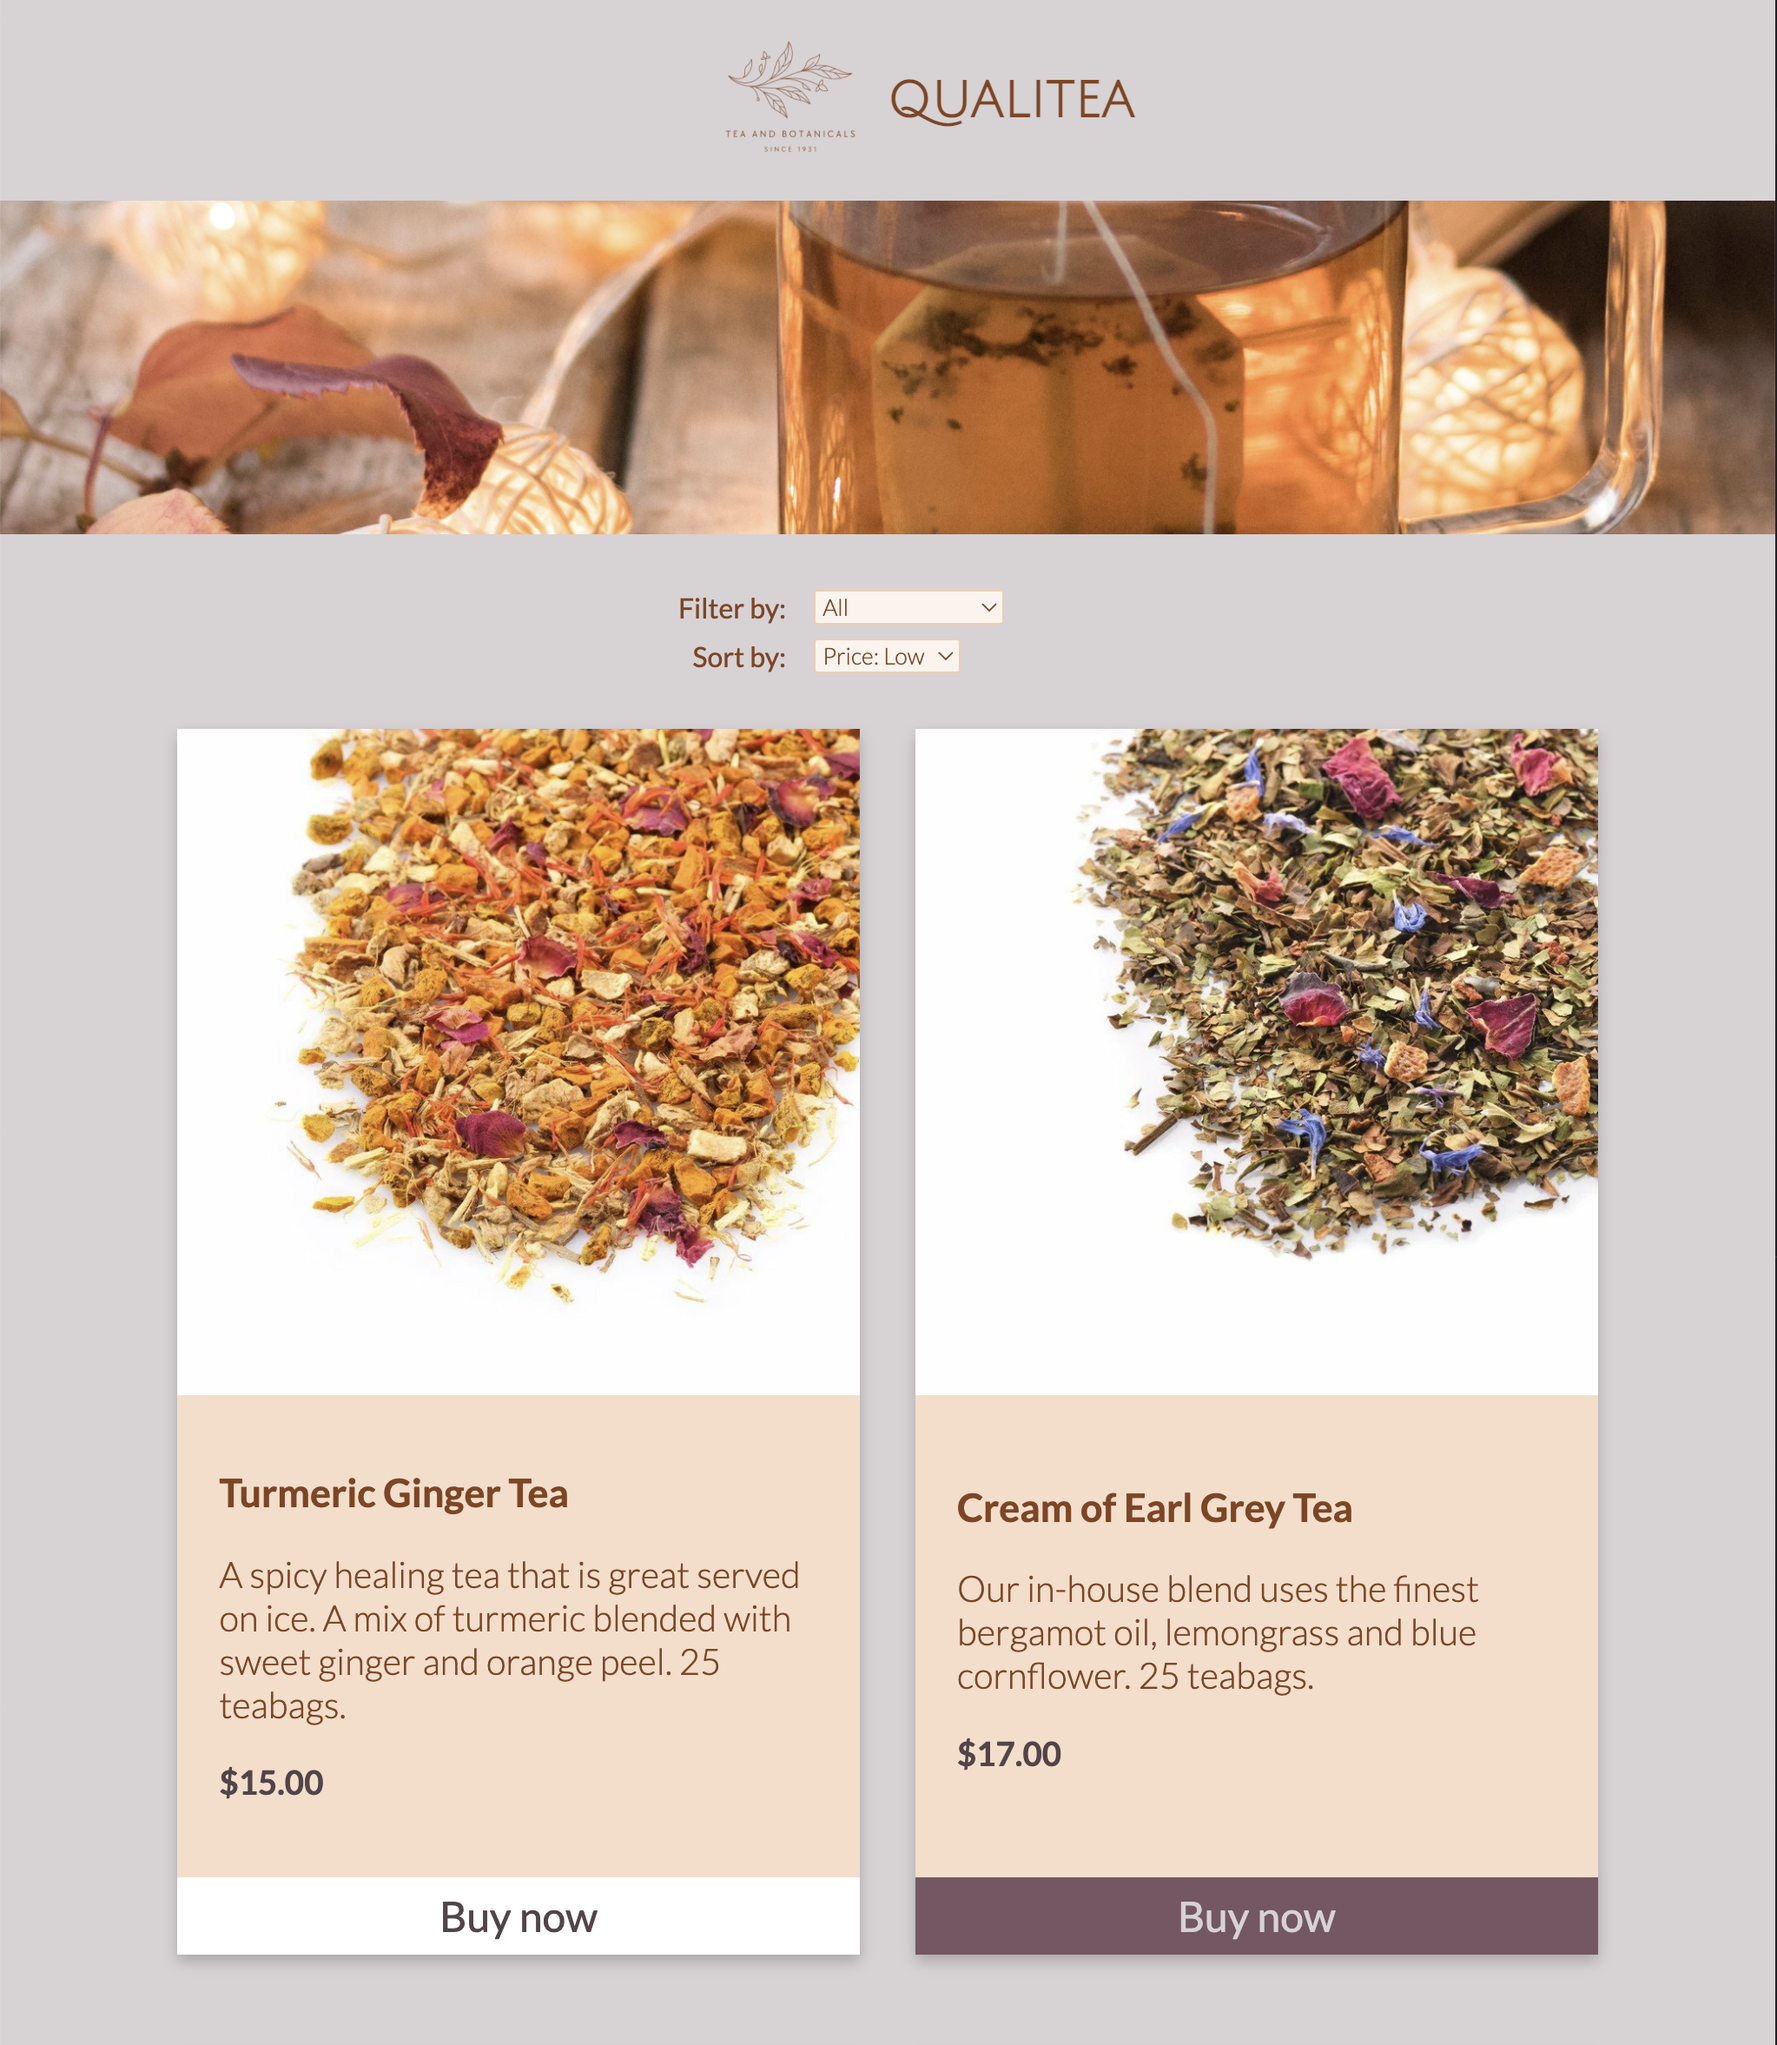
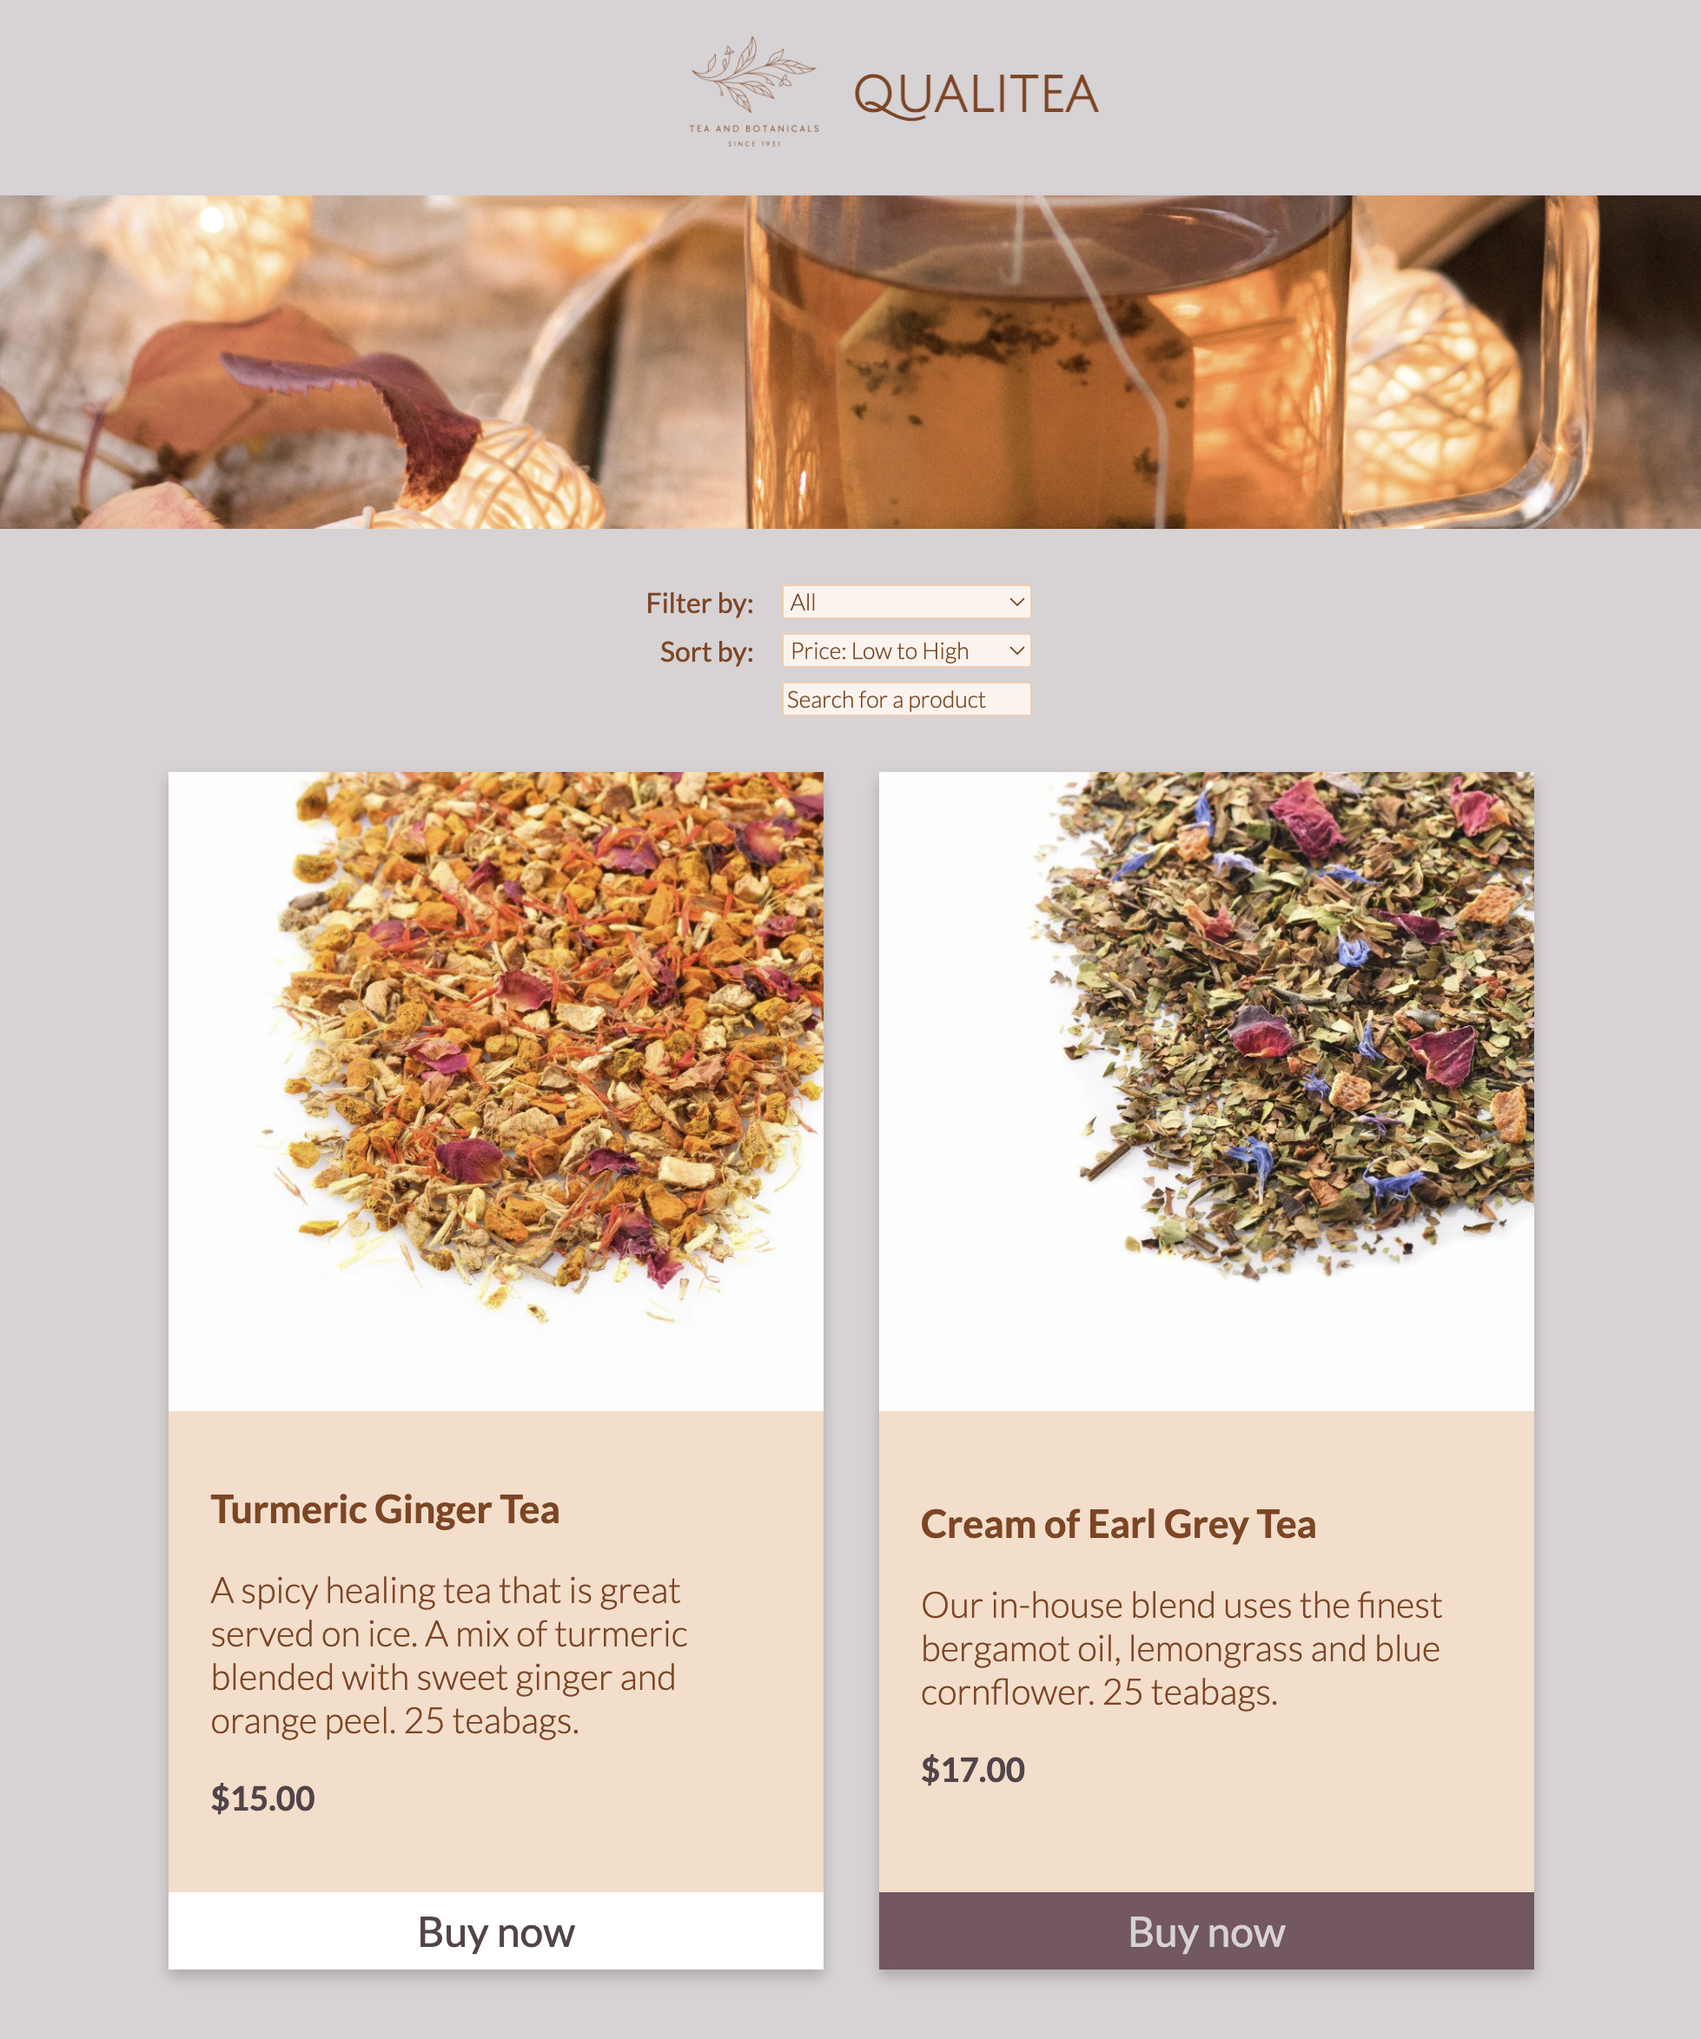
update screenshots on README and fix search so queries are converted to lowercase

diff --git a/src/components/Credits.js b/src/components/Credits.js
@@ -1,0 +1,23 @@
+const Credits = () => {
+  return (
+    <div className="credits">
+      <p className="credit1">
+        Tea product images taken from:{" "}
+        <a className="creditLink" href="https://www.teadrop.com.au/">
+          Tea Drop
+        </a>
+      </p>
+      <p className="credit2">
+        Banner image from:{" "}
+        <a
+          className="creditLink"
+          href="https://unsplash.com/photos/eXw6CPGWwcg"
+        >
+          Svitlana on Unsplash
+        </a>
+      </p>
+    </div>
+  );
+};
+
+export default Credits;

diff --git a/src/App.js b/src/App.js
@@ -10,6 +10,7 @@ import filterByCategory from "./utils/filterByCategory";
 import sortProducts from "./utils/sortProducts";
 import { getProducts } from "./services/getProducts";
 import getProductsBySearch from "./utils/getProductsBySearch";
+import Credits from "./components/Credits";
 
 function App() {
   const [products, setProducts] = useState([]);
@@ -54,6 +55,7 @@ function App() {
         <Search setSearch={setSearch} query={query} />
       </div>
       <Products products={filteredProducts} />
+      <Credits />
     </div>
   );
 }

diff --git a/src/App.css b/src/App.css
@@ -175,6 +175,25 @@ body {
   background-color: var(--primaryDeepTaupe);
 }
 
+.credits {
+  width: 80%;
+  margin: 0 auto 2rem auto;
+  color: var(--primarySaddleBrown);
+}
+
+.creditLink {
+  text-decoration: none;
+  color: var(--primaryDarkLiver);
+}
+
+.credit1 {
+  margin-bottom: 0.2rem;
+}
+
+.credit2 {
+  margin-top: 0.2rem;
+}
+
 @media only screen and (min-width: 48rem) {
   .imageBannerContainer {
     height: 12rem;

diff --git a/src/components/Search.js b/src/components/Search.js
@@ -1,7 +1,7 @@
 const Search = ({ setSearch }) => {
   const onChange = (event) => {
     if (event.target.value.length === 0 || event.target.value.length >= 2) {
-      setSearch(event.target.value);
+      setSearch(event.target.value.toLowerCase());
     }
   };
 

diff --git a/README.md b/README.md
@@ -1,10 +1,21 @@
 # 01 Project - Online Shop - QUALITEA
 
 An online shop, QUALITEA, selling quality teas and tea accessories, such as teapots and herbal tea bags.\
-The webpage can be filtered by category (tea bags or tea accessories), can be sorted by price, and product cards have a "new" feature for new products.\
-Customers can select the products they wish to purchase and they will be taken to an online checkout in Stripe to pay via credit card.
+Customers can select the products they wish to purchase and they will be taken to an online checkout in Stripe to pay via credit card.\
+The webpage has the following features:
+
+- Products can be filtered by category (tea bags or tea accessories).
+- Products can be sorted by price.
+- The customer can search for products by name using the search bar.
+- Product cards have a "new" feature for new products.
+
+## Screenshot of QUALITEA website
 
 ![Screenshot of QUALITEA website](screenshot-qualitea-tablet.png)
+
+## Screenshot of search function
+
+![Screenshot of website search function](screenshot-matcha-search.png)
 
 ## Dependencies
 
@@ -39,5 +50,5 @@ This project uses the following systems:
 
 - Favicon downloaded from: [Flaticon - Green tea icons created by monkik](https://www.flaticon.com/free-icons/green-tea)
 - Product images taken from: [Teadrop](https://www.teadrop.com.au/)
-- Header image from: [Unsplash - Photo by Svitlana](https://unsplash.com/@kekse_und_ich?utm_source=unsplash&utm_medium=referral&utm_content=creditCopyText)
+- Header image from: [Unsplash - Photo by Svitlana](https://unsplash.com/photos/eXw6CPGWwcg)
 - Logo created on: [Canva](https://www.canva.com/)
